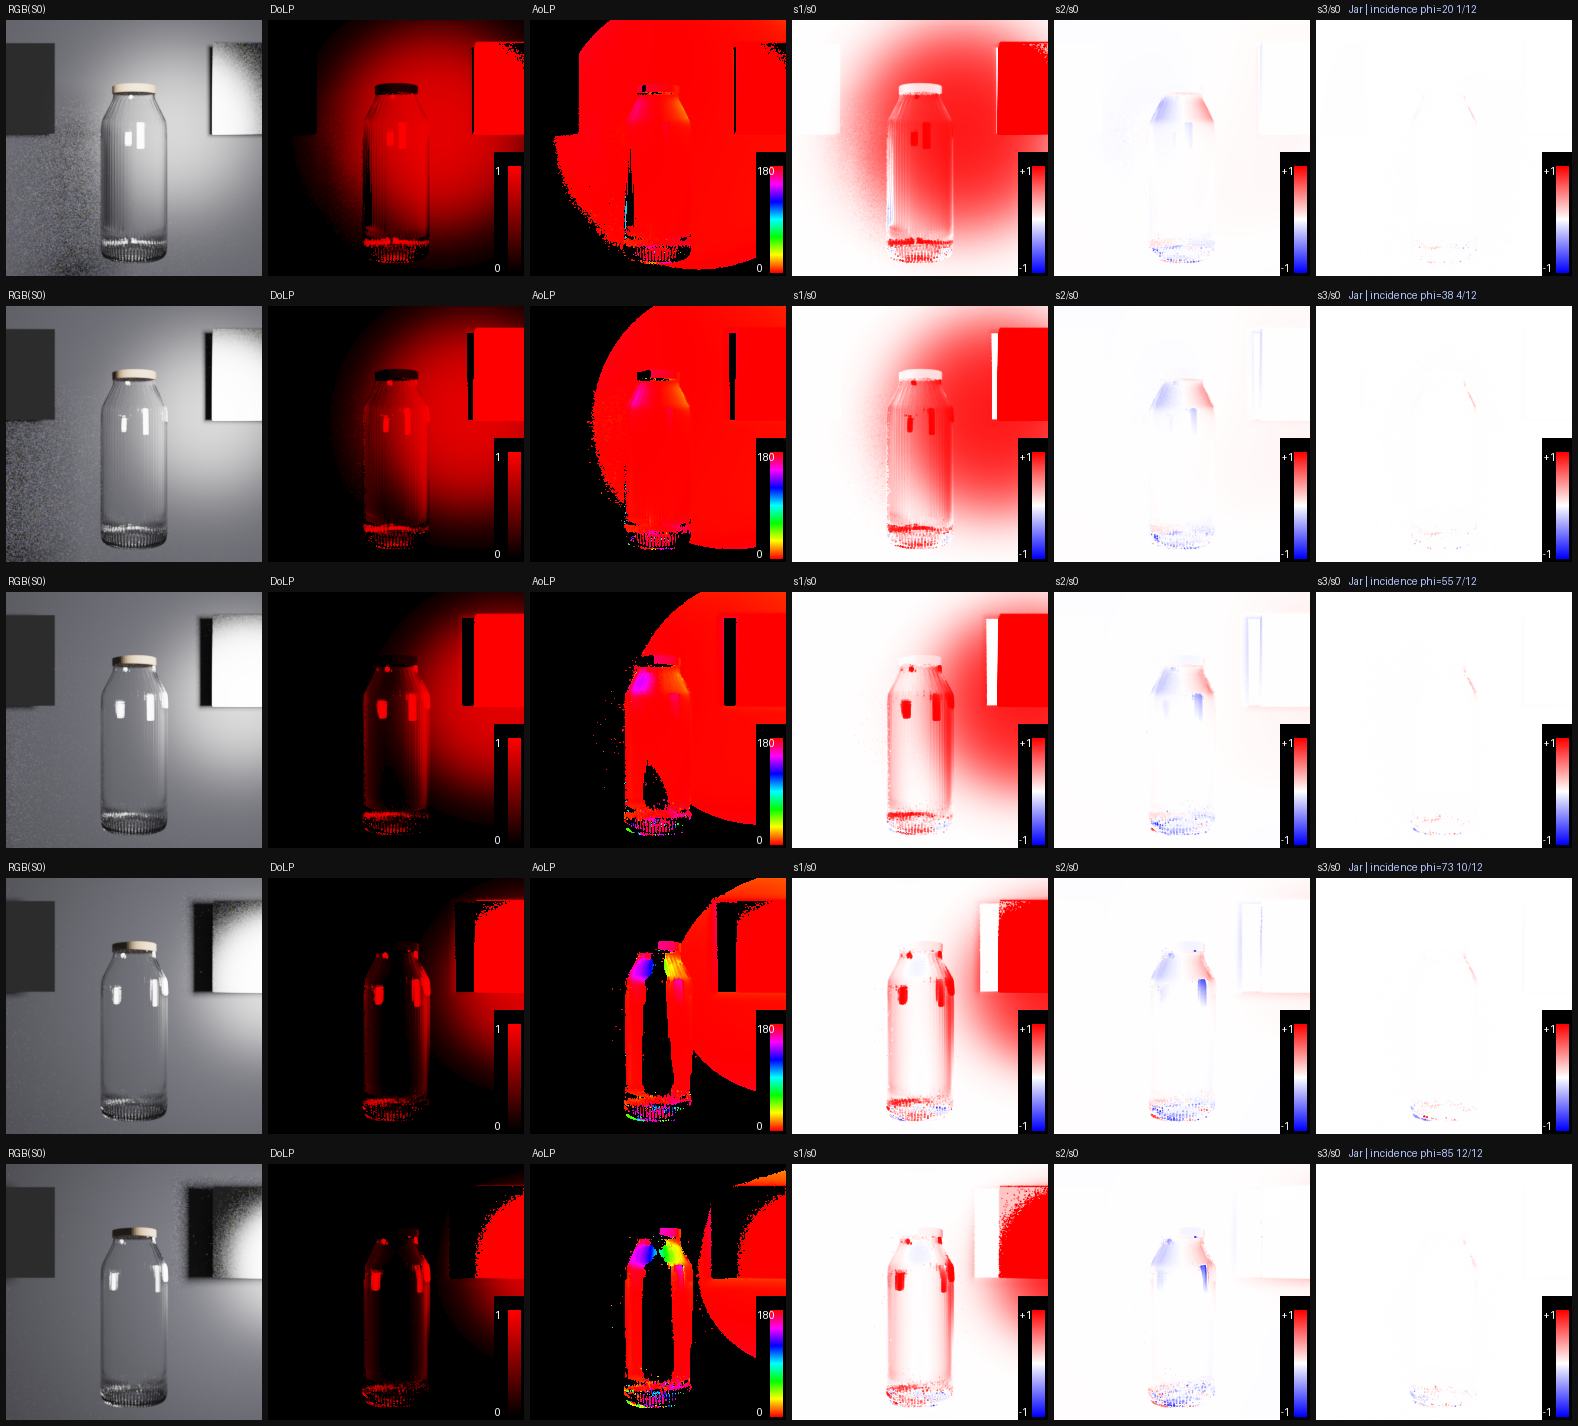
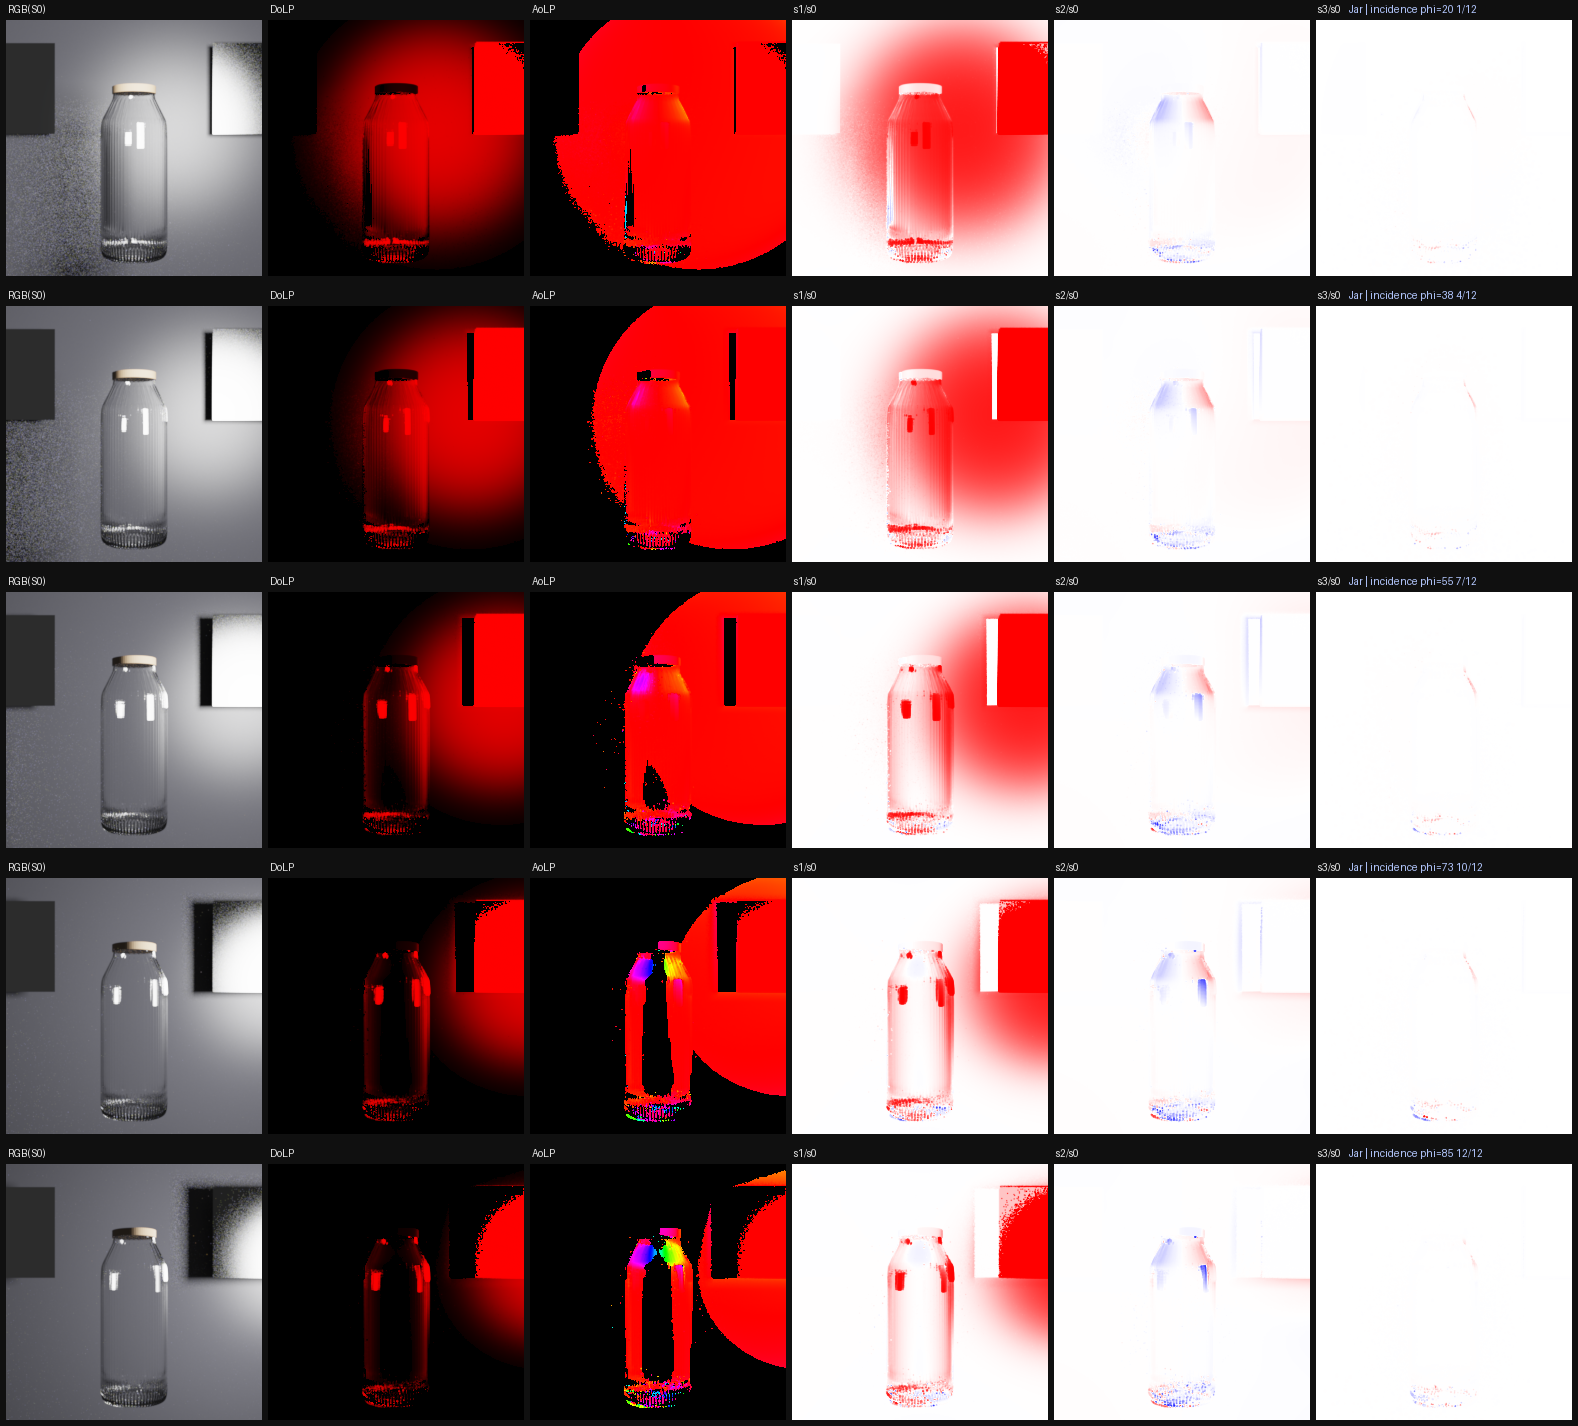
dev_report(0706): move colorbars out of frames into a static legend
Per feedback, remove the baked-in colorbars from the animated panels entirely
(they appeared to "dance" purely from GIF per-frame palette quantization, not
from any pixel change or color correction). Colorbars are now a single static
legend image (DoLP / AoLP / BwR). Re-rendered all 5x2 sweeps colorbar-free and
re-encoded GIFs with a shared global palette.

diff --git a/dev_report/report_2026-07-06_optical_class_polarization.html b/dev_report/report_2026-07-06_optical_class_polarization.html
@@ -63,7 +63,9 @@
 <li><b>입사각 궤도(orbit)</b>: flash를 오브젝트 주위로 이동(azimuth 20°→85°) → 국소 입사각이 grazing으로. 유리·plastic은 Brewster 부근서 DoLP 상승.</li>
 <li><b>polarizer 회전(polrot)</b>: flash 고정, 조명 polarizer θ 0→180° 회전 → specular 반사의 AoLP가 각도 추종.</li>
 </ul>
-<p>6패널 = RGB(S0) · DoLP · AoLP · s1/s0 · s2/s0 · s3/s0. <b>DoLP·AoLP</b>는 편광 마스크(S0&gt;0.04 &amp; DoLP&gt;0.05)로 편광 영역만; <b>s1/s2/s3</b>는 마스크 없이 <b>전영역 BwR</b>(unpolarized=흰색, 부호장 그대로). s3는 원편광이라 선형광학만 있는 이 씬에선 ≈0(흰색). <b>soft Reinhard 톤매핑</b>으로 하이라이트가 안 날아가고 <b>EXR(S0)</b>도 동시 출력. 각 편광 패널 우하단 <b>컬러바</b>. 배경 벽은 glossy(<code>pplastic</code>)라 편광 반사가 보인다(analyzer/벽 witness 강화). 광원 <code>polarized_area</code>, spp8000(유리 12000).</p>
+<p>6패널 = RGB(S0) · DoLP · AoLP · s1/s0 · s2/s0 · s3/s0. <b>DoLP·AoLP</b>는 편광 마스크(S0&gt;0.04 &amp; DoLP&gt;0.05)로 편광 영역만; <b>s1/s2/s3</b>는 마스크 없이 <b>전영역 BwR</b>(unpolarized=흰색, 부호장 그대로). s3는 원편광이라 선형광학만 있는 이 씬에선 ≈0(흰색). <b>soft Reinhard 톤매핑</b>으로 하이라이트가 안 날아가고 <b>EXR(S0)</b>도 동시 출력. 컬러바는 애니메이션 프레임에 넣지 않고 <b>아래 별도 legend</b>로 제공한다(GIF 팔레트 양자화로 프레임마다 색이 흔들리는 것을 방지). 배경 벽은 glossy(<code>pplastic</code>)라 편광 반사가 보인다(analyzer/벽 witness 강화). 광원 <code>polarized_area</code>, spp8000(유리 12000).</p>
+
+<figure style="max-width:480px"><img src="images/0706_optclass_colorbar_legend.png" alt="colorbar legend"><figcaption>컬러바 범례 (모든 편광 패널 공통). DoLP: black0→red1. AoLP: hue=각도(0→180°). s1/s2/s3: BwR(파랑 −1 → 흰 0 → 빨강 +1).</figcaption></figure>
 
 <h3>#1 metal — 수도꼭지</h3>
 <figure><img src="images/0706_optclass_tap_orbit.gif" alt="tap orbit"><figcaption>입사각 궤도. 금속 전면이 조명 편광을 보존해 DoLP≈0.9로 강하게 켜진다.</figcaption></figure>
